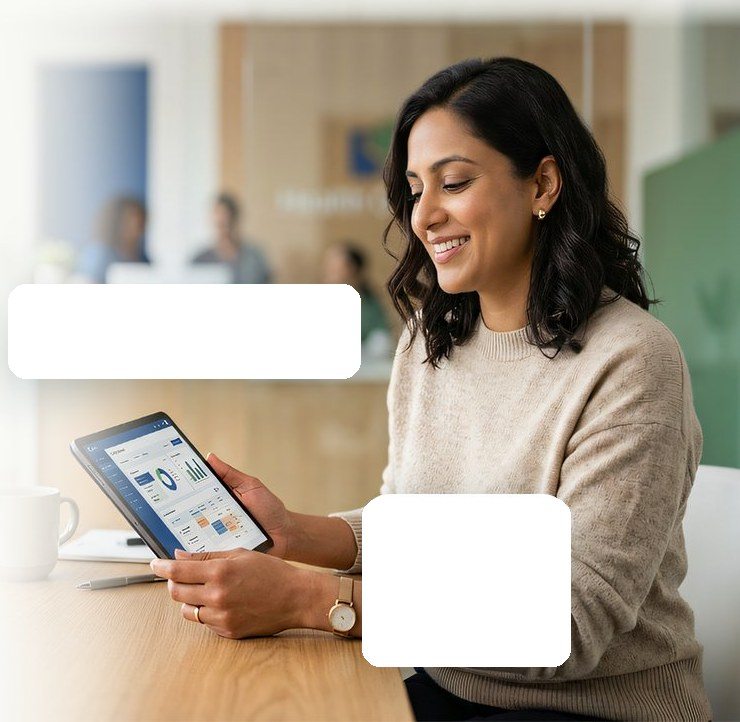
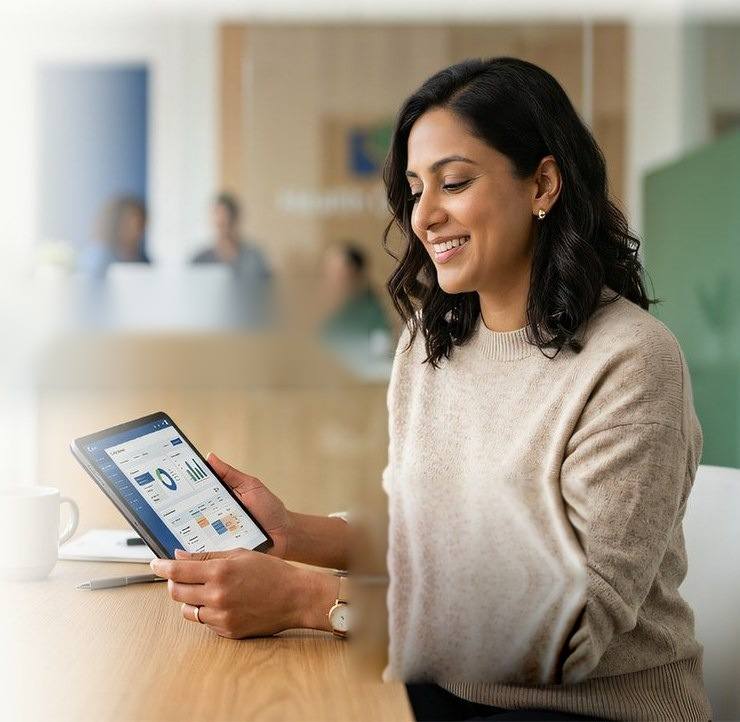
Hero: soft left-edge fade into background, restored type rhythm and button margins, softer floating badges, cleaned placeholder photo

Changed region(s): [[0.4662, 0.6704, 0.8081, 0.9446], [0.0, 0.3657, 0.4973, 0.5485]]

diff --git a/index.html b/index.html
@@ -62,30 +62,45 @@
 
   /* ---------- HERO ---------- */
   .hero{padding-top:70px;padding-bottom:34px;}
-  .hero-grid{display:grid;grid-template-columns:1.04fr 0.96fr;gap:60px;align-items:center;}
-  @media (max-width:940px){ .hero-grid{grid-template-columns:1fr;gap:44px;} }
-  .hero h1{font-family:'Fraunces',serif;font-weight:600;font-size:clamp(36px,4.4vw,58px);line-height:1.04;margin:22px 0 0;color:var(--teal-ink);}
-  .hero .subhead{font-family:'Fraunces',serif;font-weight:500;font-size:clamp(20px,2vw,25px);line-height:1.28;color:var(--green);margin-top:18px;max-width:560px;}
-  .hero .lead{font-size:17.5px;color:var(--ink-soft);margin-top:20px;max-width:560px;line-height:1.62;}
+  .hero-grid{display:grid;grid-template-columns:1.08fr 0.92fr;gap:56px;align-items:center;}
+  @media (max-width:1080px){ .hero-grid{grid-template-columns:1fr;gap:44px;} }
+  .hero-copy{max-width:600px;}
+  .hero h1{font-family:'Fraunces',serif;font-weight:600;font-size:clamp(34px,3.85vw,52px);line-height:1.1;letter-spacing:-0.012em;margin:20px 0 0;color:var(--teal-ink);text-wrap:balance;}
+  .hero .subhead{font-family:'Fraunces',serif;font-weight:500;font-size:clamp(19px,1.85vw,24px);line-height:1.34;color:var(--green);margin:20px 0 0;max-width:540px;}
+  .hero .lead{font-size:17px;color:var(--ink-soft);margin:20px 0 0;max-width:540px;line-height:1.68;}
   .hero .lead strong{color:var(--teal-ink);font-weight:600;}
-  .hero-actions{display:flex;gap:14px;margin-top:32px;flex-wrap:wrap;}
-  .checks{margin-top:30px;display:flex;flex-direction:column;gap:11px;}
-  .check{display:flex;align-items:flex-start;gap:11px;font-size:15px;color:var(--ink);font-weight:500;}
-  .check .dbl{flex:none;margin-top:1px;}
-  .deliverable{margin-top:16px;display:inline-flex;align-items:center;gap:10px;background:var(--green-soft);border:1px solid rgba(62,140,90,.30);color:var(--green-dark);font-weight:600;font-size:14.5px;padding:11px 18px;border-radius:12px;}
+  .hero-actions{display:flex;align-items:center;column-gap:14px;row-gap:12px;margin:36px 0 0;flex-wrap:wrap;}
+  .checks{margin:36px 0 0;display:flex;flex-direction:column;gap:12px;}
+  .check{display:flex;align-items:flex-start;gap:11px;font-size:15px;line-height:1.45;color:var(--ink);font-weight:500;}
+  .check .dbl{flex:none;margin-top:3px;}
+  .deliverable{margin:22px 0 0;display:inline-flex;align-items:center;gap:10px;background:var(--green-soft);border:1px solid rgba(62,140,90,.30);color:var(--green-dark);font-weight:600;font-size:14.5px;line-height:1.35;padding:11px 18px;border-radius:12px;}
 
   /* hero photo + badges */
-  .shot{position:relative;width:100%;aspect-ratio:740/722;border-radius:22px;overflow:hidden;box-shadow:0 40px 80px -40px rgba(18,36,29,.45);}
-  .shot img{width:100%;height:100%;object-fit:cover;display:block;}
-  .badge{position:absolute;background:#fff;border-radius:16px;box-shadow:var(--card-shadow);display:flex;align-items:center;}
-  .badge-approve{left:1.1%;top:38.5%;min-width:47.5%;min-height:13.1%;gap:14px;padding:16px 22px 16px 18px;}
+  .shot{position:relative;width:100%;aspect-ratio:740/722;}
+  .shot img{width:100%;height:100%;object-fit:cover;display:block;border-radius:22px;
+    -webkit-mask-image:linear-gradient(to right, rgba(0,0,0,0) 0%, rgba(0,0,0,.08) 5%, rgba(0,0,0,.34) 10%, rgba(0,0,0,.72) 16%, rgba(0,0,0,1) 24%);
+            mask-image:linear-gradient(to right, rgba(0,0,0,0) 0%, rgba(0,0,0,.08) 5%, rgba(0,0,0,.34) 10%, rgba(0,0,0,.72) 16%, rgba(0,0,0,1) 24%);}
+  /* soft ground shadow, kept clear of the faded left edge so the blend stays seamless */
+  .shot::before{content:'';position:absolute;left:26%;right:2%;bottom:2%;height:56%;border-radius:22px;
+    box-shadow:0 46px 80px -52px rgba(18,36,29,.55);pointer-events:none;z-index:-1;}
+  .badge{position:absolute;background:rgba(255,255,255,.94);-webkit-backdrop-filter:blur(12px);backdrop-filter:blur(12px);
+    border:1px solid rgba(255,255,255,.65);border-radius:18px;display:flex;align-items:center;
+    box-shadow:0 26px 48px -22px rgba(18,36,29,.30), 0 8px 18px -10px rgba(18,36,29,.14), 0 1px 2px rgba(18,36,29,.05);}
+  .badge-approve{left:-5%;top:36%;min-width:50%;gap:14px;padding:16px 22px 16px 18px;}
   .badge-approve .ico{width:38px;height:38px;flex:none;border-radius:50%;background:var(--green);display:flex;align-items:center;justify-content:center;}
-  .badge-approve .txt b{display:block;font-size:16px;color:var(--teal-ink);font-weight:700;line-height:1.15;}
-  .badge-approve .txt span{display:block;font-size:13.5px;color:var(--ink-soft);margin-top:2px;}
-  .badge-time{right:22.9%;top:69%;min-width:28.2%;min-height:23.3%;flex-direction:column;justify-content:center;text-align:center;padding:16px 22px;}
-  .badge-time .clock{width:40px;height:40px;border-radius:50%;background:var(--teal);display:flex;align-items:center;justify-content:center;margin:0 auto 6px;}
-  .badge-time .big{font-family:'Fraunces',serif;font-weight:700;font-size:26px;color:var(--teal);line-height:1;white-space:nowrap;}
-  .badge-time .sub{font-size:12.5px;color:var(--ink-soft);margin-top:6px;line-height:1.25;}
+  .badge-approve .txt b{display:block;font-size:16px;color:var(--teal-ink);font-weight:700;line-height:1.2;}
+  .badge-approve .txt span{display:block;font-size:13.5px;color:var(--ink-soft);margin-top:3px;line-height:1.3;}
+  .badge-time{right:-4%;top:64%;min-width:30%;flex-direction:column;justify-content:center;text-align:center;padding:18px 22px 20px;}
+  .badge-time .clock{width:40px;height:40px;border-radius:50%;background:var(--teal);display:flex;align-items:center;justify-content:center;margin:0 auto 8px;}
+  .badge-time .big{font-family:'Fraunces',serif;font-weight:700;font-size:25px;color:var(--teal);line-height:1.05;white-space:nowrap;}
+  .badge-time .sub{font-size:12.5px;color:var(--ink-soft);margin-top:7px;line-height:1.3;}
+  @media (max-width:1080px){
+    .hero-visual{max-width:640px;}
+    .shot img{-webkit-mask-image:none;mask-image:none;}
+    .shot::before{left:2%;}
+    .badge-approve{left:2%;}
+    .badge-time{right:2%;}
+  }
 
   /* ---------- BEFORE / AFTER ---------- */
   .compare{background:var(--teal-ink);color:#fff;border-radius:24px;padding:46px 44px;margin-top:20px;}
@@ -265,7 +280,7 @@
   <section class="hero">
     <div class="wrap">
       <div class="hero-grid">
-        <div>
+        <div class="hero-copy">
           <span class="eyebrow">FHIR R4 · Da Vinci PAS compliant</span>
           <h1>CMS-0057-F Is Coming.<br>Are You Ready?</h1>
           <div class="subhead">Identify Prior Authorization Gaps Before They Become Compliance Risks</div>
